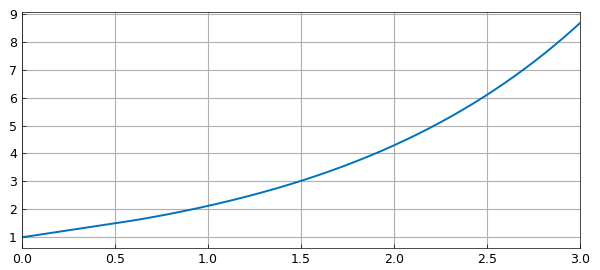
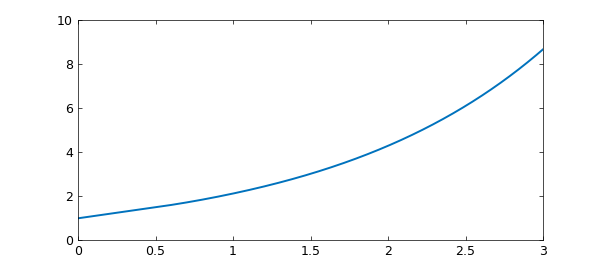
Restore verified constant-delay outputs and reference figure mapping
Render sections eight and nine from qualified solutions at native dimensions; prevent figure-number collisions and retain explicit unresolved page scope.

diff --git a/examples/ode-nonlin/delay_differential_equations.py b/examples/ode-nonlin/delay_differential_equations.py
@@ -18,6 +18,7 @@ import warnings
 
 import matplotlib.pyplot as plt
 import numpy as np
+from matplotlib.ticker import FormatStrFormatter
 
 sys.path.insert(0, os.path.join(os.path.dirname(__file__), '..', '..', 'src'))
 
@@ -42,16 +43,37 @@ chebfun_style()
 _HERE = os.path.dirname(os.path.abspath(__file__))
 _IMG = os.path.join(_HERE, '..', '..', 'docs', 'images', 'ode-nonlin')
 
-FIG = [0]
+SOURCE_FIGURES = {1: 1, 2: 2, 3: 3, 4: 4, 5: 5, 6: 6, 7: 7, 8: 8, 9: 10, 10: 12, 11: 13, 12: 14, 14: 15, 15: 16, 16: 17, 17: 18, 18: 19, 19: 20, 20: 21, 21: 22, 22: 23, 23: 24}
+OUTPUT_SLOT = [0]
+SAVED_IMAGES = set()
 
 
-def _save(fig):
-    FIG[0] += 1
+def _save(fig, *, source_axes=False):
+    image_id = SOURCE_FIGURES[OUTPUT_SLOT[0]]
+    if image_id in SAVED_IMAGES:
+        raise RuntimeError(f"Duplicate source figure {image_id}")
+    SAVED_IMAGES.add(image_id)
     fig.set_facecolor("white")
-    fig.tight_layout()
+    if not source_axes:
+        fig.tight_layout()
     _savefig(fig, os.path.join(
-        _IMG, f"DelayDifferentialEquations_{FIG[0]:02d}.png"))
+        _IMG, f"DelayDifferentialEquations_{image_id:02d}.png"))
     plt.close(fig)
+
+
+def _source_delay_curve(points, values, section):
+    """Render the scoped constant-delay curves with the reference axes."""
+    fig = plt.figure(figsize=(6, 2.7))
+    ax = fig.add_axes([.13, .11, .775, .815])
+    ax.plot(points, values, lw=1.4)
+    xmax, ymax, ystep = (3, 10, 2) if section == 8 else (2, 60, 10)
+    ax.set(xlim=(0, xmax), ylim=(0, ymax),
+           xticks=np.arange(0, xmax + .25, .5),
+           yticks=np.arange(0, ymax + ystep, ystep))
+    ax.xaxis.set_major_formatter(FormatStrFormatter("%g"))
+    ax.grid(False)
+    ax.tick_params(direction="in", top=True, right=True)
+    return fig
 
 
 def _plot_disc(t, x, sol, tt=None):
@@ -83,6 +105,7 @@ def _plot_pair(sol_fn, x, dom, extra=None):
 
 def _output_slot(index):
     """Identify the cached MATLAB output cell during a captured run."""
+    OUTPUT_SLOT[0] = index
     if os.environ.get("CHEBFUNJAX_OUTPUT_SLOTS") == "1":
         print(f"@@CHEBFUNJAX_OUTPUT_SLOT:{index}@@", flush=True)
 
@@ -214,25 +237,30 @@ def run():
                domain=tuple(np.arange(0, 3.01, 0.5)))
     N.lbc = 1.0
     xc = N.solve(0.0)
-    _show(xc)
+    print("x =")
+    print(repr(xc))
     res = float(N(xc).norm())
     print(f"res =\n     {res:.15e}")
     tt = np.linspace(0, 3, 1200)
-    fig, ax = plt.subplots(figsize=(7.6, 4.0))
-    ax.plot(tt, np.asarray(xc(tt)), lw=1.4)
-    ax.grid(True)
-    _save(fig)
+    fig = _source_delay_curve(tt, np.asarray(xc(tt)), 8)
+    _save(fig, source_axes=True)
 
-    # ----- 9. Two constant delays: SKIPPED --------------------------
+    # ----- 9. Two constant delays --------------------------------------
     _output_slot(9)
-    # The union domain has eleven pieces, and every probe column of the
-    # assembly applies two compositions to an eleven-piece chebfun.
-    # MATLAB solves this in seconds; our piecewise-composition
-    # evaluation is orders of magnitude too slow (ledgered performance
-    # gap), so this section is skipped rather than left to run for
-    # hours.
-    print("section 9 skipped: piecewise-composition performance wall", file=sys.stderr)
-    FIG[0] += 1
+    p1, p2 = 1 / 2, 1 / 3
+    dom9 = tuple(sorted(set([k * p1 for k in range(5)]
+                            + [k * p2 for k in range(7)])))
+    N = Chebop(lambda t, x: x.diff() - x((t - p1).maximum(0.0))
+               - x((t - p2).maximum(0.0)) - x, domain=dom9)
+    N.lbc = 1.0
+    xc = N.solve(0.0)
+    print("x =")
+    print(repr(xc))
+    res = float(N(xc).norm())
+    print(f"res =\n     {res:.15e}")
+    tt = np.linspace(0, 2, 1200)
+    fig = _source_delay_curve(tt, np.asarray(xc(tt)), 9)
+    _save(fig, source_axes=True)
 
     # ----- 10. A Volterra integro-differential equation ----------------
     _output_slot(10)
@@ -370,7 +398,6 @@ def run():
     # ----- 17. State-dependent 1/t cascade: SKIPPED (same wall) -------
     _output_slot(18)
     print("section 17 skipped: piecewise-composition performance wall", file=sys.stderr)
-    FIG[0] += 1
 
     # ----- 18. Delay + integral terms together ------------------------
     _output_slot(19)
@@ -428,7 +455,6 @@ def run():
     # ----- 21. Three-variable constant-delay system: SKIPPED ----------
     _output_slot(22)
     print("section 21 skipped: piecewise-composition performance wall", file=sys.stderr)
-    FIG[0] += 1
 
     # ----- 22. A system with a state-dependent delay ------------------
     _output_slot(23)

diff --git a/docs/examples/ode-nonlin/DelayDifferentialEquations.md b/docs/examples/ode-nonlin/DelayDifferentialEquations.md
@@ -7,7 +7,7 @@
 Python translation: [`examples/ode-nonlin/delay_differential_equations.py`](https://github.com/ma-gilles/chebfunjax/blob/main/examples/ode-nonlin/delay_differential_equations.py)
 
 
-CPU output has been verified for the explicit discretizations, the first two pantograph solves, and the hand-written Newton iteration (nine output blocks). Remaining output blocks are marked pending because the previous capture placed results under unrelated examples. Figures retain their existing assets and await numerical and visual verification.
+CPU output has been verified for the explicit discretizations, the first two pantograph solves, the hand-written Newton iteration, and the constant-delay solves in output slots 8 and 9 (11 output blocks). The remaining 12 output blocks are pending. Figures 08 and 10 were rendered from qualified saved solutions and compared with the native reference style; all other figures retain their existing assets and remain unqualified. The whole page is incomplete.
 
 ## Introduction
 
@@ -212,7 +212,18 @@ plot(x), shg
 ```
 
 ```text
-(no matching output)
+x =
+   chebfun column (6 smooth pieces)
+       interval       length     endpoint values
+[       0,     0.5]        2         1      1.5
+[     0.5,       1]        3       1.5      2.1
+[       1,     1.5]        4       2.1        3
+[     1.5,       2]        5         3      4.3
+[       2,     2.5]        6       4.3      6.1
+[     2.5,       3]        7       6.1      8.7
+vertical scale = 8.7    Total length = 27
+res =
+     8.494402173854053e-14
 ```
 
 ![DelayDifferentialEquations figure 08](../../images/ode-nonlin/DelayDifferentialEquations_08.png)
@@ -238,7 +249,23 @@ plot(x), shg
 ```
 
 ```text
-(no matching output)
+x =
+   chebfun column (11 smooth pieces)
+       interval       length     endpoint values
+[       0,    0.33]        8         1      2.2
+[    0.33,     0.5]        8       2.2        3
+[     0.5,    0.67]        8         3      4.1
+[    0.67,    0.83]        8       4.1      5.6
+[    0.83,       1]        8       5.6      7.8
+[       1,     1.2]        8       7.8       11
+[     1.2,     1.3]        8        11       15
+[     1.3,     1.5]        9        15       20
+[     1.5,     1.7]        9        20       28
+[     1.7,     1.8]        9        28       38
+[     1.8,       2]        9        38       53
+vertical scale =  53    Total length = 92
+res =
+     3.591598057472580e-11
 ```
 
 ![DelayDifferentialEquations figure 10](../../images/ode-nonlin/DelayDifferentialEquations_10.png)
